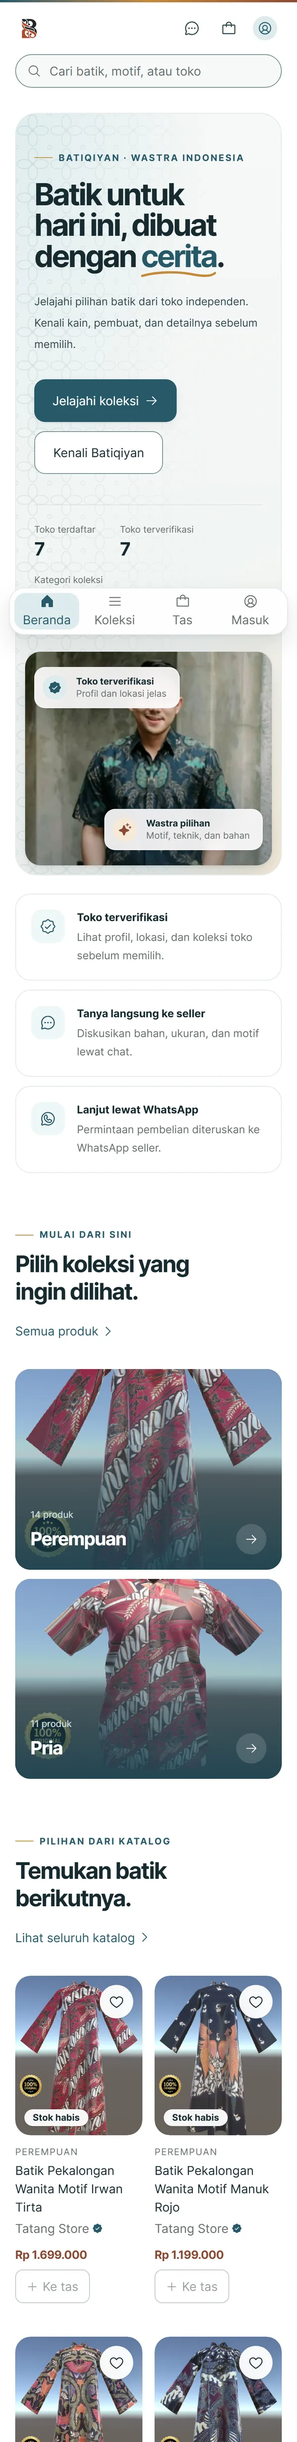
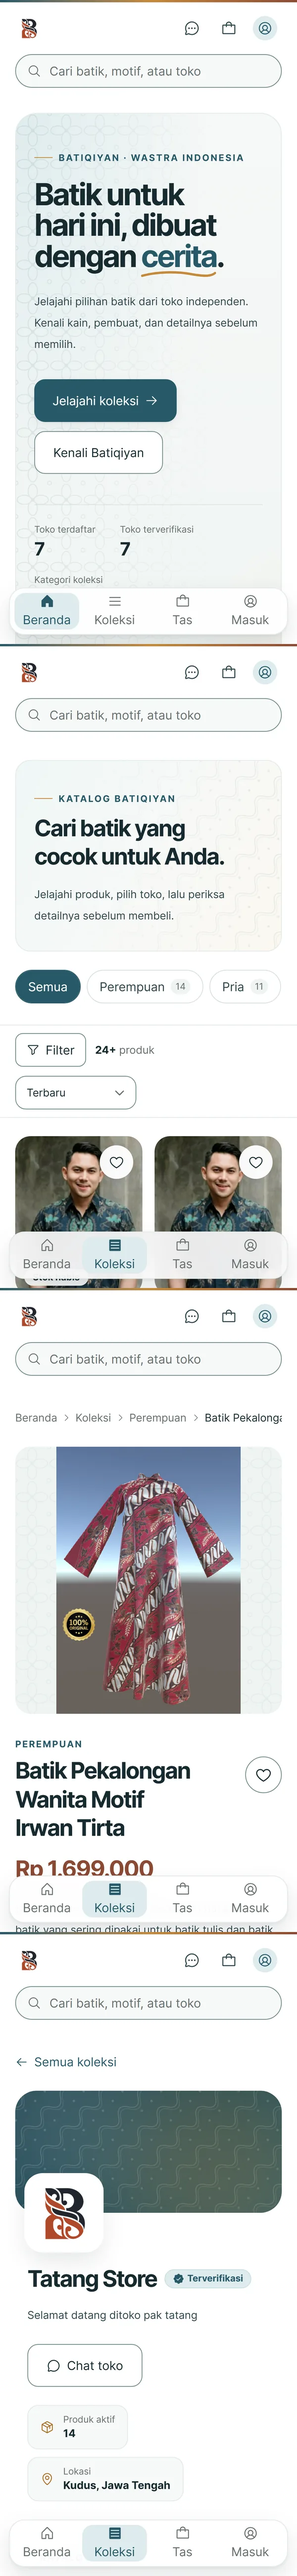
Slim sticky header on phones, a real phone frame, Batiqiyan app screens
- Phones and narrow tablets (<= 820px): the sidebar becomes a sticky
  header with name, search and terminal icons, and the sections as one
  sideways-scrolling row of pills that follows the section in view.
  Availability, the section numbers, the lamp cord and the shortcut badge
  are hidden there; jump links land below the header.
- Phone previews use a full device (bezel, side buttons, island, glare)
  sized by height. A screenshot made of whole screens stacked vertically
  pages through them like an app demo; a single tall page still scrolls.
- Batiqiyan's preview is now four real screens of its mobile web app:
  home, catalog, product and store.

diff --git a/src/styles.css b/src/styles.css
@@ -157,8 +157,6 @@ button,input{font-family:inherit}
 }
 
 @media (max-width: 820px){
-.dk-side{position:relative !important;height:auto !important;flex:1 1 100% !important;border-right:0 !important;border-bottom:1px solid #1C1C1C}
-.dk-side-nav{flex-direction:row !important;flex-wrap:wrap}
 .dk-side-foot{display:none !important}
 .dk-sticky{position:relative !important;top:auto !important}
 }
@@ -203,11 +201,6 @@ button{cursor:pointer}
 .dk-word{animation:dk-word linear both;animation-timeline:--about;animation-range:cover var(--a) cover var(--b)}
 }
 
-/* phone: the nav label gets its own row and the active bar (which sits outside the pill) is dropped */
-@media (max-width: 820px){
-.dk-side-nav>span:first-child{flex-basis:100%}
-.dk-side-nav a>span:first-child{display:none}
-}
 
 /* stack playground without motion: a plain wrapped list */
 .dk-box.is-static{height:auto !important;display:flex;flex-wrap:wrap;gap:8px;padding:56px 24px 24px}
@@ -223,21 +216,52 @@ button{cursor:pointer}
    Greyscale to sit in the monochrome page; the colour comes back on hover and in the case study. */
 .pv-url{margin-left:10px;min-width:0;overflow:hidden;text-overflow:ellipsis;white-space:nowrap;font-family:var(--mono);font-size:10px;color:#8A8A8A}
 .pv-screen{position:relative;display:block;flex:1 1 auto;min-height:0;overflow:hidden;container-type:size;background:#0B0B0B}
-.pv-screen.is-phone{height:100%;border-radius:21px 21px 0 0}
 .pv-shot{display:block;width:100%;height:auto;filter:grayscale(1) brightness(.85) contrast(1.05);transition:filter .6s ease;will-change:transform;animation:pv-scroll 22s cubic-bezier(.45,0,.55,1) infinite alternate}
 @keyframes pv-scroll{0%,8%{transform:translateY(0)}92%,100%{transform:translateY(calc(-100% + 100cqh))}}
 button:hover .pv-shot,button:focus-visible .pv-shot,.pv-case .pv-shot{filter:none}
-.pv-notch{position:absolute;z-index:1;top:6px;left:50%;width:34%;height:6px;transform:translateX(-50%);border-radius:6px;background:#050505}
 .pv-features{position:absolute;z-index:2;left:6%;bottom:12%;width:52%;display:flex;flex-direction:column;gap:10px;font-family:var(--mono);font-size:12px;line-height:1.35;color:#5A5A5A}
 .pv-features>span{display:flex;gap:10px;align-items:baseline;animation:pv-feat 12s ease infinite}
 .pv-features>span::before{content:'';flex:none;width:6px;height:6px;border-radius:50%;background:currentColor;transform:translateY(-1px)}
 @keyframes pv-feat{0%,30%{color:#EDEDED}38%,100%{color:#5A5A5A}}
 .pv-thumb{position:absolute;inset:0;width:100%;height:100%;object-fit:cover;object-position:top;filter:grayscale(1) brightness(.9)}
 .pv-case{position:absolute;left:8%;right:8%;bottom:0;height:82%;border:1px solid #2A2A2A;border-bottom:0;border-radius:16px 16px 0 0;background:#0B0B0B;overflow:hidden;display:flex;flex-direction:column}
-.pv-case.is-phone{left:50%;right:auto;width:min(30%,300px);height:90%;transform:translateX(-50%);border-radius:40px 40px 0 0;padding:8px 8px 0;box-sizing:border-box}
-.pv-case.is-phone .pv-screen{border-radius:32px 32px 0 0}
 .pv-case-bar{height:34px;flex:none;display:flex;align-items:center;gap:6px;padding:0 14px;border-bottom:1px solid #1C1C1C}
 .pv-case-bar>span:not(.pv-url){width:8px;height:8px;border-radius:50%;background:#333}
 @media (prefers-reduced-motion: reduce){.pv-shot,.pv-features>span{animation:none}}
 /* small preview boxes (phones): a bigger phone, no feature list beside it */
-@media (max-width:600px){.pv-phone{width:40% !important;right:8% !important;height:86% !important}.pv-features{display:none}}
+
+/* phone device: sized by height, everything inside scales with it (container units) */
+.pv-device{position:absolute;z-index:2;display:block;aspect-ratio:418/872;container-type:size}
+.pv-device-body{position:absolute;inset:0;box-sizing:border-box;padding:3.6cqw;border-radius:16cqw;background:linear-gradient(155deg,#5a5a5a 0%,#232323 9%,#0e0e0e 45%,#141414 80%,#3a3a3a 100%);box-shadow:inset 0 0 0 .6cqw #6a6a6a,inset 0 0 0 1.6cqw #0b0b0b,0 6cqh 10cqh -2cqh rgba(0,0,0,.75)}
+.pv-device-body::before{content:'';position:absolute;right:-.9cqw;top:26%;width:1.4cqw;height:12%;border-radius:0 1cqw 1cqw 0;background:linear-gradient(90deg,#1a1a1a,#4a4a4a)}
+.pv-device-body::after{content:'';position:absolute;left:-.9cqw;top:19%;width:1.4cqw;height:7%;border-radius:1cqw 0 0 1cqw;background:linear-gradient(270deg,#1a1a1a,#4a4a4a);box-shadow:0 9cqh 0 #303030}
+.pv-device-screen{position:relative;display:block;width:100%;height:100%;overflow:hidden;border-radius:12.6cqw;background:#000;container-type:size}
+.pv-device-screen::after{content:'';position:absolute;inset:0;z-index:2;pointer-events:none;background:linear-gradient(118deg,rgba(255,255,255,.10) 0%,rgba(255,255,255,.03) 28%,transparent 42%)}
+.pv-island{position:absolute;z-index:3;top:1.5%;left:50%;width:30%;height:3.3%;transform:translateX(-50%);border-radius:999px;background:#000}
+.pv-device-screen.is-strip .pv-shot{animation:none;transition:transform .9s cubic-bezier(.76,0,.24,1),filter .6s ease}
+.pv-phone{right:9%;bottom:6%;height:84%}
+.pv-case-phone{left:50%;top:6%;height:88%;transform:translateX(-50%)}
+.pv-case-phone .pv-shot{filter:none}
+@media (max-width:600px){.pv-phone{right:7%;height:80%}.pv-features{display:none}}
+
+/* phones and narrow tablets: the sidebar becomes a slim sticky header.
+   Row 1: who + search/terminal icons. Row 2: the sections as one sideways-scrolling strip of pills. */
+@media (max-width: 820px){
+.dk-side{position:sticky !important;top:0;z-index:30;height:auto !important;flex:1 1 100% !important;display:grid !important;grid-template-columns:minmax(0,1fr) auto;align-items:center;gap:10px 8px !important;padding:10px 14px 10px !important;border-right:0 !important;border-bottom:1px solid #1C1C1C;background:rgba(10,10,10,.82) !important;-webkit-backdrop-filter:blur(14px) saturate(1.2);backdrop-filter:blur(14px) saturate(1.2)}
+.dk-side .dk-cord,.dk-side-avail,.dk-side-foot,.dk-side-hide{display:none !important}
+.dk-side-id{padding:0 !important;gap:10px !important;min-width:0}
+.dk-side-id>span:first-child{width:34px !important;height:34px !important;font-size:12px !important}
+.dk-side-id>div>span:first-child{font-size:14px !important;white-space:nowrap;overflow:hidden;text-overflow:ellipsis}
+.dk-side-id>div>span:last-child{font-size:12px !important;white-space:nowrap;overflow:hidden;text-overflow:ellipsis}
+.dk-side-actions{margin:0 !important;gap:6px !important}
+.dk-side-actions>button{flex:none !important;width:40px !important;height:40px !important;min-height:40px !important;padding:0 !important;justify-content:center}
+.dk-side-nav{position:relative;grid-column:1/-1;flex-direction:row !important;flex-wrap:nowrap !important;gap:4px !important;margin:0 -14px;padding:0 14px 2px;overflow-x:auto;scrollbar-width:none;-webkit-mask-image:linear-gradient(90deg,transparent,#000 14px,#000 calc(100% - 28px),transparent);mask-image:linear-gradient(90deg,transparent,#000 14px,#000 calc(100% - 28px),transparent)}
+.dk-side-nav::-webkit-scrollbar{display:none}
+.dk-side-nav>span:first-child,.dk-side-nav a>span:first-child,.dk-side-nav a>svg,.dk-side-nav a>span:last-child{display:none}
+.dk-side-nav a{flex:none;min-height:34px !important;padding:0 14px !important;border-radius:999px !important;border:1px solid #1C1C1C;white-space:nowrap;font-size:13px}
+.dk-side-nav a[aria-current="page"]{background:#EDEDED !important;color:#070707 !important;border-color:#EDEDED}
+
+/* jump links land below the sticky header; a keyboard shortcut means nothing on a touch screen */
+section[id]{scroll-margin-top:118px}
+}
+@media (hover:none){.dk-kbd{display:none}}

diff --git a/src/site/Sidebar.tsx b/src/site/Sidebar.tsx
@@ -22,6 +22,14 @@ interface Props {
 export const Sidebar = memo(function Sidebar({ profile, enterDelay, active, lamp, onCord, onPalette, onTerminal, onReplay }: Props) {
   const [runs, setRuns] = useState<number[]>(() => SECTIONS.map(() => 0));
   const d = { side: enterDelay };
+  const navRef = useRef<HTMLElement>(null);
+  useEffect(() => {
+    const strip = navRef.current;
+    const on = strip?.querySelector<HTMLElement>('[aria-current="page"]');
+    if (!strip || !on || strip.scrollWidth <= strip.clientWidth) return;
+    strip.scrollTo({ left: on.offsetLeft - (strip.clientWidth - on.offsetWidth) / 2, behavior: 'smooth' });
+  }, [active]);
+
   const cordRef = useRef<HTMLButtonElement>(null);
   const grip = useRef<{ x: number; y: number; moved: boolean } | null>(null);
   const skipClick = useRef(false);
@@ -107,7 +115,7 @@ export const Sidebar = memo(function Sidebar({ profile, enterDelay, active, lamp
     <span aria-hidden="true" className="dk-cord-sway"><span className="dk-cord-pull"><span className="dk-cord-line" /><span className="dk-cord-knob" /></span></span>
     </button>
 
-    <div style={sx(`display: flex; align-items: center; gap: 12px; padding: 0 20px 0 8px`)}>
+    <div className="dk-side-id" style={sx(`display: flex; align-items: center; gap: 12px; padding: 0 20px 0 8px`)}>
     <span aria-hidden="true" style={sx(`width: 40px; height: 40px; border-radius: 50%; background: #EDEDED; color: #070707; display: flex; align-items: center; justify-content: center; font-weight: 600; font-size: 14px; letter-spacing: -0.02em; flex: none`)}>{profile.initials}</span>
     <div style={sx(`display: flex; flex-direction: column; min-width: 0`)}>
     <span style={sx(`font-weight: 500; font-size: 15px; letter-spacing: -0.01em`)}>{profile.name}</span>
@@ -115,20 +123,20 @@ export const Sidebar = memo(function Sidebar({ profile, enterDelay, active, lamp
     </div>
     </div>
 
-    <div style={sx(`margin: 0 8px; display: flex; align-items: center; gap: 10px; border: 1px solid #1C1C1C; border-radius: 999px; padding: 8px 14px; font-size: 13px; color: #C9C9C9`)}>
+    <div className="dk-side-avail" style={sx(`margin: 0 8px; display: flex; align-items: center; gap: 10px; border: 1px solid #1C1C1C; border-radius: 999px; padding: 8px 14px; font-size: 13px; color: #C9C9C9`)}>
     <span aria-hidden="true" style={sx(`position: relative; width: 7px; height: 7px; flex: none`)}><span style={sx(`position: absolute; inset: 0; border-radius: 50%; background: #EDEDED`)}></span><span style={sx(`position: absolute; inset: -4px; border-radius: 50%; border: 1px solid #EDEDED; animation: dk-ping 2s ease-out infinite`)}></span></span>{profile.availability}
     </div>
 
-    <div style={sx(`margin: 0 8px; display: flex; gap: 8px`)}>
-    <button type="button" onClick={openPal} className="dk-ghost" style={sx(`flex-grow: 1; min-width: 0; min-height: 44px; border-radius: 12px; border: 1px solid #1C1C1C; background: #0E0E0E; color: #9A9A9A; display: flex; align-items: center; gap: 8px; padding: 0 10px 0 12px; font-size: 14px`)}>
+    <div className="dk-side-actions" style={sx(`margin: 0 8px; display: flex; gap: 8px`)}>
+    <button type="button" onClick={openPal} aria-label="Search or ask" className="dk-ghost" style={sx(`flex-grow: 1; min-width: 0; min-height: 44px; border-radius: 12px; border: 1px solid #1C1C1C; background: #0E0E0E; color: #9A9A9A; display: flex; align-items: center; gap: 8px; padding: 0 10px 0 12px; font-size: 14px`)}>
     <svg aria-hidden="true" width="16" height="16" viewBox="0 0 24 24" fill="none" stroke="currentColor" strokeWidth="1.6"><circle cx="11" cy="11" r="7"/><path d="M20 20l-4-4"/></svg>
-    <span style={sx(`flex-grow: 1; text-align: left; white-space: nowrap; font-size: 13px`)}>Search / ask</span>
-    <span style={sx(`font-family: var(--mono); font-size: 11px; border: 1px solid #262626; border-radius: 6px; padding: 2px 6px`)}>⌘K</span>
+    <span aria-hidden="true" className="dk-side-hide" style={sx(`flex-grow: 1; text-align: left; white-space: nowrap; font-size: 13px`)}>Search / ask</span>
+    <span aria-hidden="true" className="dk-side-hide" style={sx(`font-family: var(--mono); font-size: 11px; border: 1px solid #262626; border-radius: 6px; padding: 2px 6px`)}>⌘K</span>
     </button>
     <button type="button" onClick={openTerm} aria-label="Open terminal mode" className="dk-ghost dk-mag" style={sx(`width: 44px; height: 44px; flex: none; border-radius: 12px; border: 1px solid #1C1C1C; background: #0E0E0E; color: #EDEDED; display: flex; align-items: center; justify-content: center`)}><svg aria-hidden="true" width="18" height="18" viewBox="0 0 24 24" fill="none" stroke="currentColor" strokeWidth="1.6"><path d="M5 7l5 5-5 5M12 17h7"/></svg></button>
     </div>
 
-    <nav aria-label="Sections" className="dk-side-nav dk-nav" style={sx(`display: flex; flex-direction: column; gap: 2px; font-size: 14px`)}>
+    <nav ref={navRef} aria-label="Sections" className="dk-side-nav dk-nav" style={sx(`display: flex; flex-direction: column; gap: 2px; font-size: 14px`)}>
     <span style={sx(`padding: 0 10px 8px; font-family: var(--mono); font-size: 11px; letter-spacing: 0.08em; color: #8A8A8A`)}>NAVIGATE</span>
     {nav.map((n, i) => (<Fragment key={i}>
     <a href={n.href} onMouseEnter={n.hover} aria-current={n.current} aria-label={n.label} style={sx(`position: relative; display: flex; align-items: center; gap: 12px; min-height: 40px; padding: 0 10px; border-radius: 10px; text-decoration: none; background: ${n.bg}; color: ${n.color}; transition: background .3s ease, color .3s ease`)}>

diff --git a/src/site/Work.tsx b/src/site/Work.tsx
@@ -5,6 +5,7 @@ import type { Project, ProjectCategory } from '../content/types';
 import { registerFloat } from './effects';
 import { tilt, untilt } from './pointer';
 import { Scramble } from './Scramble';
+import { PhoneShot } from './PhoneShot';
 
 type Filter = 'all' | ProjectCategory;
 
@@ -177,8 +178,7 @@ export const Work = memo(function Work({ projects, secret, active, onOpenCase }:
     </>)}
 
     {sel.isPhone && (<>
-    <span aria-hidden="true" className={sel.shot ? "pv-phone" : undefined} style={sx(`position: absolute; z-index: 2; right: 10%; bottom: 0; width: 26%; height: 80%; border: 1px solid #2E2E2E; border-bottom: 0; border-radius: 26px 26px 0 0; background: #0B0B0B; overflow: hidden; padding: ${sel.shot ? '5px 5px 0' : '10px 8px 0'}; box-sizing: border-box; animation: ${anim} .7s cubic-bezier(.2,.8,.2,1) .1s both`)}>
-    {sel.shot ? (<span className="pv-screen is-phone"><img key={sel.shot} className="pv-shot" src={sel.shot} alt="" loading="lazy" decoding="async" /><span className="pv-notch"></span></span>) : (<>
+    {sel.shot ? (<PhoneShot key={sel.shot} src={sel.shot} className="pv-phone" anim={anim} />) : (<span aria-hidden="true" style={sx(`position: absolute; z-index: 2; right: 10%; bottom: 0; width: 26%; height: 80%; border: 1px solid #2E2E2E; border-bottom: 0; border-radius: 26px 26px 0 0; background: #0B0B0B; overflow: hidden; padding: 10px 8px 0; box-sizing: border-box; animation: ${anim} .7s cubic-bezier(.2,.8,.2,1) .1s both`)}>
     <span style={sx(`display: block; width: 34%; height: 6px; border-radius: 6px; background: #1E1E1E; margin: 0 auto 10px`)}></span>
     <span style={sx(`display: flex; flex-direction: column; gap: 7px; animation: dk-scrollui 7s ease-in-out infinite alternate`)}>
     <span className="dk-skel" style={sx(`height: 10px; width: 55%`)}></span>
@@ -189,8 +189,7 @@ export const Work = memo(function Work({ projects, secret, active, onOpenCase }:
     <span className="dk-skel" style={sx(`height: 10px; width: 70%`)}></span>
     <span className="dk-skel" style={sx(`height: 56px; border-radius: 12px`)}></span>
     </span>
-    </>)}
-    </span>
+    </span>)}
     {sel.shot ? (<span aria-hidden="true" className="pv-features">{sel.features.map((f, i) => (<Fragment key={i}><span style={sx(`animation-delay: ${f.d}`)}>{f.t}</span></Fragment>))}</span>) : (
     <span aria-hidden="true" style={sx(`position: absolute; z-index: 2; left: 6%; bottom: 14%; width: 46%; display: flex; flex-direction: column; gap: 8px`)}><span className="dk-skel" style={sx(`height: 10px; width: 90%`)}></span><span className="dk-skel" style={sx(`height: 10px; width: 70%`)}></span><span className="dk-skel" style={sx(`height: 10px; width: 80%`)}></span></span>)}
     </>)}

diff --git a/src/site/PhoneShot.tsx b/src/site/PhoneShot.tsx
@@ -1,0 +1,52 @@
+import { useEffect, useState, type SyntheticEvent } from 'react';
+import { prefersReducedMotion } from '../lib/env';
+
+const SCREEN_RATIO = 844 / 390; // phone screen height / width
+const DWELL_MS = 3200;
+
+/**
+ * A phone with a real screenshot inside. The image is either one tall page, which scrolls,
+ * or a strip of whole screens stacked top to bottom (detected from its height), which the
+ * phone pages through one screen at a time like an app demo.
+ */
+export function PhoneShot({ src, className, anim }: { src: string; className?: string; anim?: string }) {
+  const [screens, setScreens] = useState(1);
+  const [at, setAt] = useState(0);
+
+  useEffect(() => {
+    setScreens(1);
+    setAt(0);
+  }, [src]);
+
+  useEffect(() => {
+    if (screens < 2 || prefersReducedMotion()) return;
+    const t = window.setInterval(() => setAt((i) => (i + 1) % screens), DWELL_MS);
+    return () => window.clearInterval(t);
+  }, [screens]);
+
+  const measure = (e: SyntheticEvent<HTMLImageElement>) => {
+    const img = e.currentTarget;
+    const ratio = img.naturalHeight / img.naturalWidth / SCREEN_RATIO;
+    const n = Math.round(ratio);
+    setScreens(n >= 2 && n <= 8 && Math.abs(ratio - n) < 0.06 ? n : 1);
+  };
+
+  const strip = screens > 1;
+  return (
+    <span aria-hidden="true" className={`pv-device ${className ?? ''}`} style={anim ? { animation: `${anim} .7s cubic-bezier(.2,.8,.2,1) .1s both` } : undefined}>
+      <span className="pv-device-body">
+        <span className={strip ? 'pv-device-screen is-strip' : 'pv-device-screen'}>
+          <img
+            className="pv-shot"
+            src={src}
+            alt=""
+            decoding="async"
+            onLoad={measure}
+            style={strip ? { transform: `translateY(${(-at * 100) / screens}%)` } : undefined}
+          />
+          <span className="pv-island" />
+        </span>
+      </span>
+    </span>
+  );
+}

diff --git a/src/site/CaseStudy.tsx b/src/site/CaseStudy.tsx
@@ -1,3 +1,4 @@
+import { PhoneShot } from './PhoneShot';
 import { Fragment, useEffect, useRef } from 'react';
 import { sx } from '../lib/css';
 import { useFocusTrap } from '../lib/focus';
@@ -71,10 +72,10 @@ export function CaseStudy({ project, nextName, flip, onClose, onNext }: Props) {
     </dd></div>
     </dl>
     <div style={sx(`position: relative; aspect-ratio: 16 / 8; border-radius: 24px; border: 1px solid #1C1C1C; background: radial-gradient(#1E1E1E 1px, transparent 1px) 0 0/24px 24px, #090909; overflow: hidden; display: flex; align-items: center; justify-content: center`)}>
-    {cs.shot ? (
-    <div aria-hidden="true" className={cs.phone ? 'pv-case is-phone' : 'pv-case'}>
-    {!cs.phone && (<div className="pv-case-bar"><span></span><span></span><span></span><span className="pv-url">{cs.host}</span></div>)}
-    <div className={cs.phone ? 'pv-screen is-phone' : 'pv-screen'}><img className="pv-shot" src={cs.shot} alt="" decoding="async" />{cs.phone && <span className="pv-notch"></span>}</div>
+    {cs.shot && cs.phone ? (<PhoneShot key={cs.shot} src={cs.shot} className="pv-case-phone" />) : cs.shot ? (
+    <div aria-hidden="true" className="pv-case">
+    <div className="pv-case-bar"><span></span><span></span><span></span><span className="pv-url">{cs.host}</span></div>
+    <div className="pv-screen"><img className="pv-shot" src={cs.shot} alt="" decoding="async" /></div>
     </div>
     ) : (
     <div aria-hidden="true" style={sx(`position: absolute; left: 8%; right: 8%; bottom: 0; height: 74%; border: 1px solid #2A2A2A; border-bottom: 0; border-radius: 16px 16px 0 0; background: #0B0B0B; padding: 18px; box-sizing: border-box; display: flex; flex-direction: column; gap: 12px`)}>

diff --git a/src/site/Hero.tsx b/src/site/Hero.tsx
@@ -44,7 +44,7 @@ export const Hero = memo(function Hero({ profile, d, kickerRun, onPalette }: Pro
     <button type="button" onClick={openPal} className="dk-ghost dk-shine" style={sx(`width: 100%; min-height: 56px; border-radius: 16px; border: 1px solid #262626; background: #0E0E0E; color: #A8A8A8; display: flex; align-items: center; gap: 12px; padding: 0 12px 0 18px; font-size: 15px; text-align: left`)}>
     <svg aria-hidden="true" width="18" height="18" viewBox="0 0 24 24" fill="none" stroke="currentColor" strokeWidth="1.6"><path d="M12 3l1.8 4.7L18.5 9.5l-4.7 1.8L12 16l-1.8-4.7L5.5 9.5l4.7-1.8z"/><path d="M19 15l.8 2.2L22 18l-2.2.8L19 21l-.8-2.2L16 18l2.2-.8z"/></svg>
     <span style={sx(`flex-grow: 1`)}>Ask my AI agent, or jump anywhere</span>
-    <span style={sx(`font-family: var(--mono); font-size: 12px; color: #9A9A9A; border: 1px solid #262626; border-radius: 6px; padding: 3px 7px`)}>⌘ K</span>
+    <span aria-hidden="true" className="dk-kbd" style={sx(`font-family: var(--mono); font-size: 12px; color: #9A9A9A; border: 1px solid #262626; border-radius: 6px; padding: 3px 7px; white-space: nowrap`)}>⌘ K</span>
     </button>
     </div>
     <dl className="dk-enter" style={sx(`margin: 24px 0 0; display: grid; grid-template-columns: repeat(auto-fit, minmax(170px, 1fr)); border: 1px solid #1C1C1C; border-radius: 20px; overflow: hidden; background: rgba(7,7,7,0.6); animation-delay: ${d.dl}`)}>
